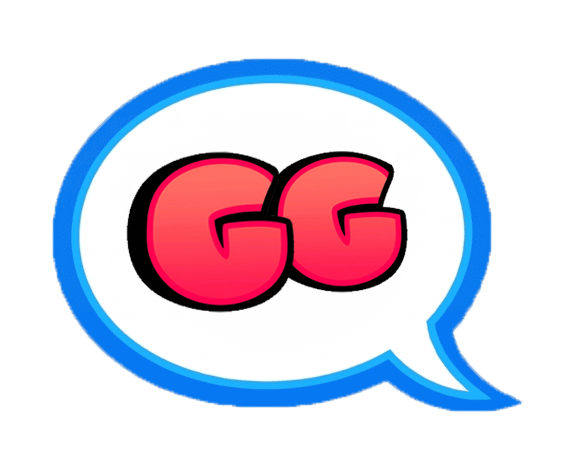
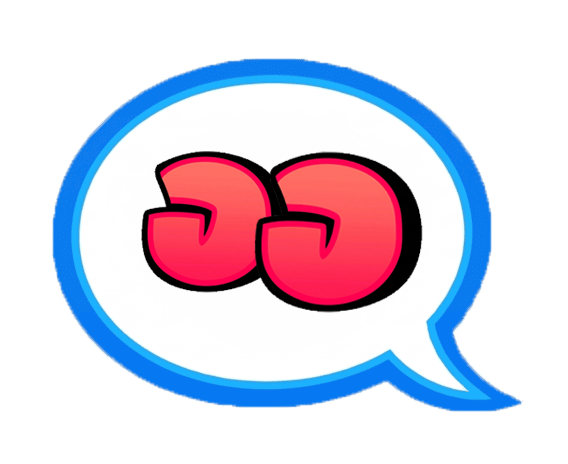
Ver. 3.9.5 - Updated emote 7 art

Changed region(s): [[0.2095, 0.3017, 0.7482, 0.694]]

diff --git a/stats/index.html b/stats/index.html
@@ -1341,6 +1341,7 @@ const CHANGELOG = [
   ]],
   ['3.9.3','2026-09-24',89,['Emotes: la animación al enviarlos ahora es mucho más rápida y con más golpe: el emote sale como una exclamación con rebote y un anillo de impacto, al estilo Clash Royale, y la foto da un pequeño salto cuando llega otro emote.']],
   ['3.9.4','2026-09-24',90,['Emotes: quitado el anillo que aparecía alrededor del emote al enviarlo.']],
+  ['3.9.5','2026-09-24',91,['Emotes: actualizado el arte del emote 7.']],
 ];
 function renderChangelog(){
   const el = $('changelog-list');

diff --git a/play/index.html b/play/index.html
@@ -1480,7 +1480,7 @@
         <img class="loading-play-confirm2" src="images/back2.png" alt="" draggable="false" oncontextmenu="return false">
       </div>
     </div>
-    <div id="loading-version">Ver. 3.9.4</div>
+    <div id="loading-version">Ver. 3.9.5</div>
   </div>
 
   <!-- Pantalla de resultado versus (W/L) — fuera del loading-screen para verse tras la partida -->
